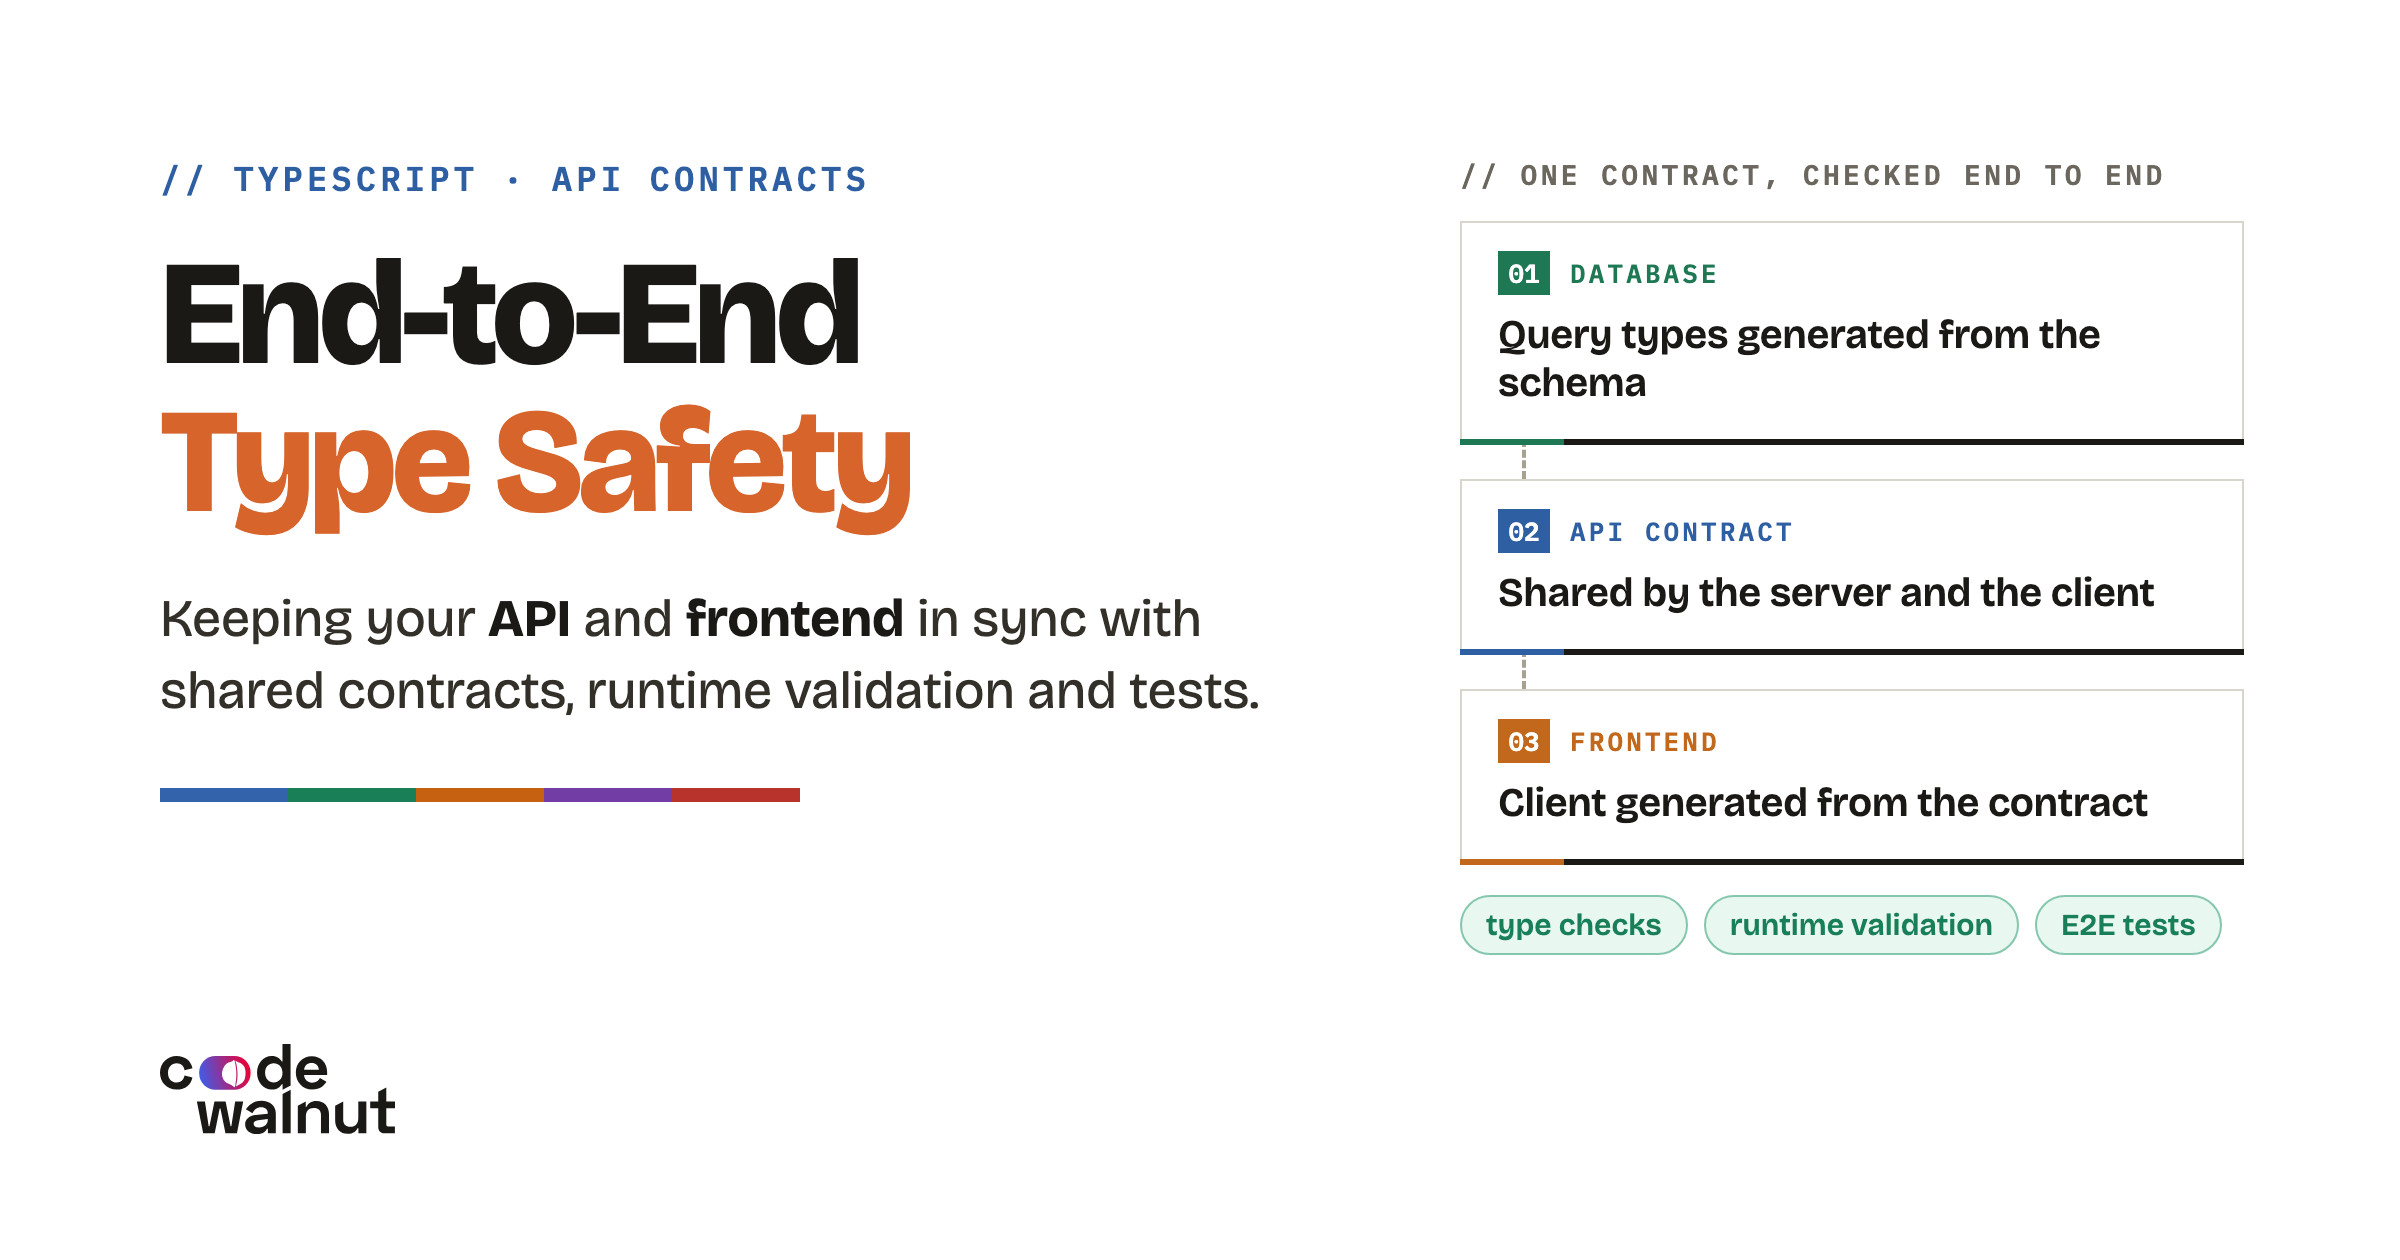
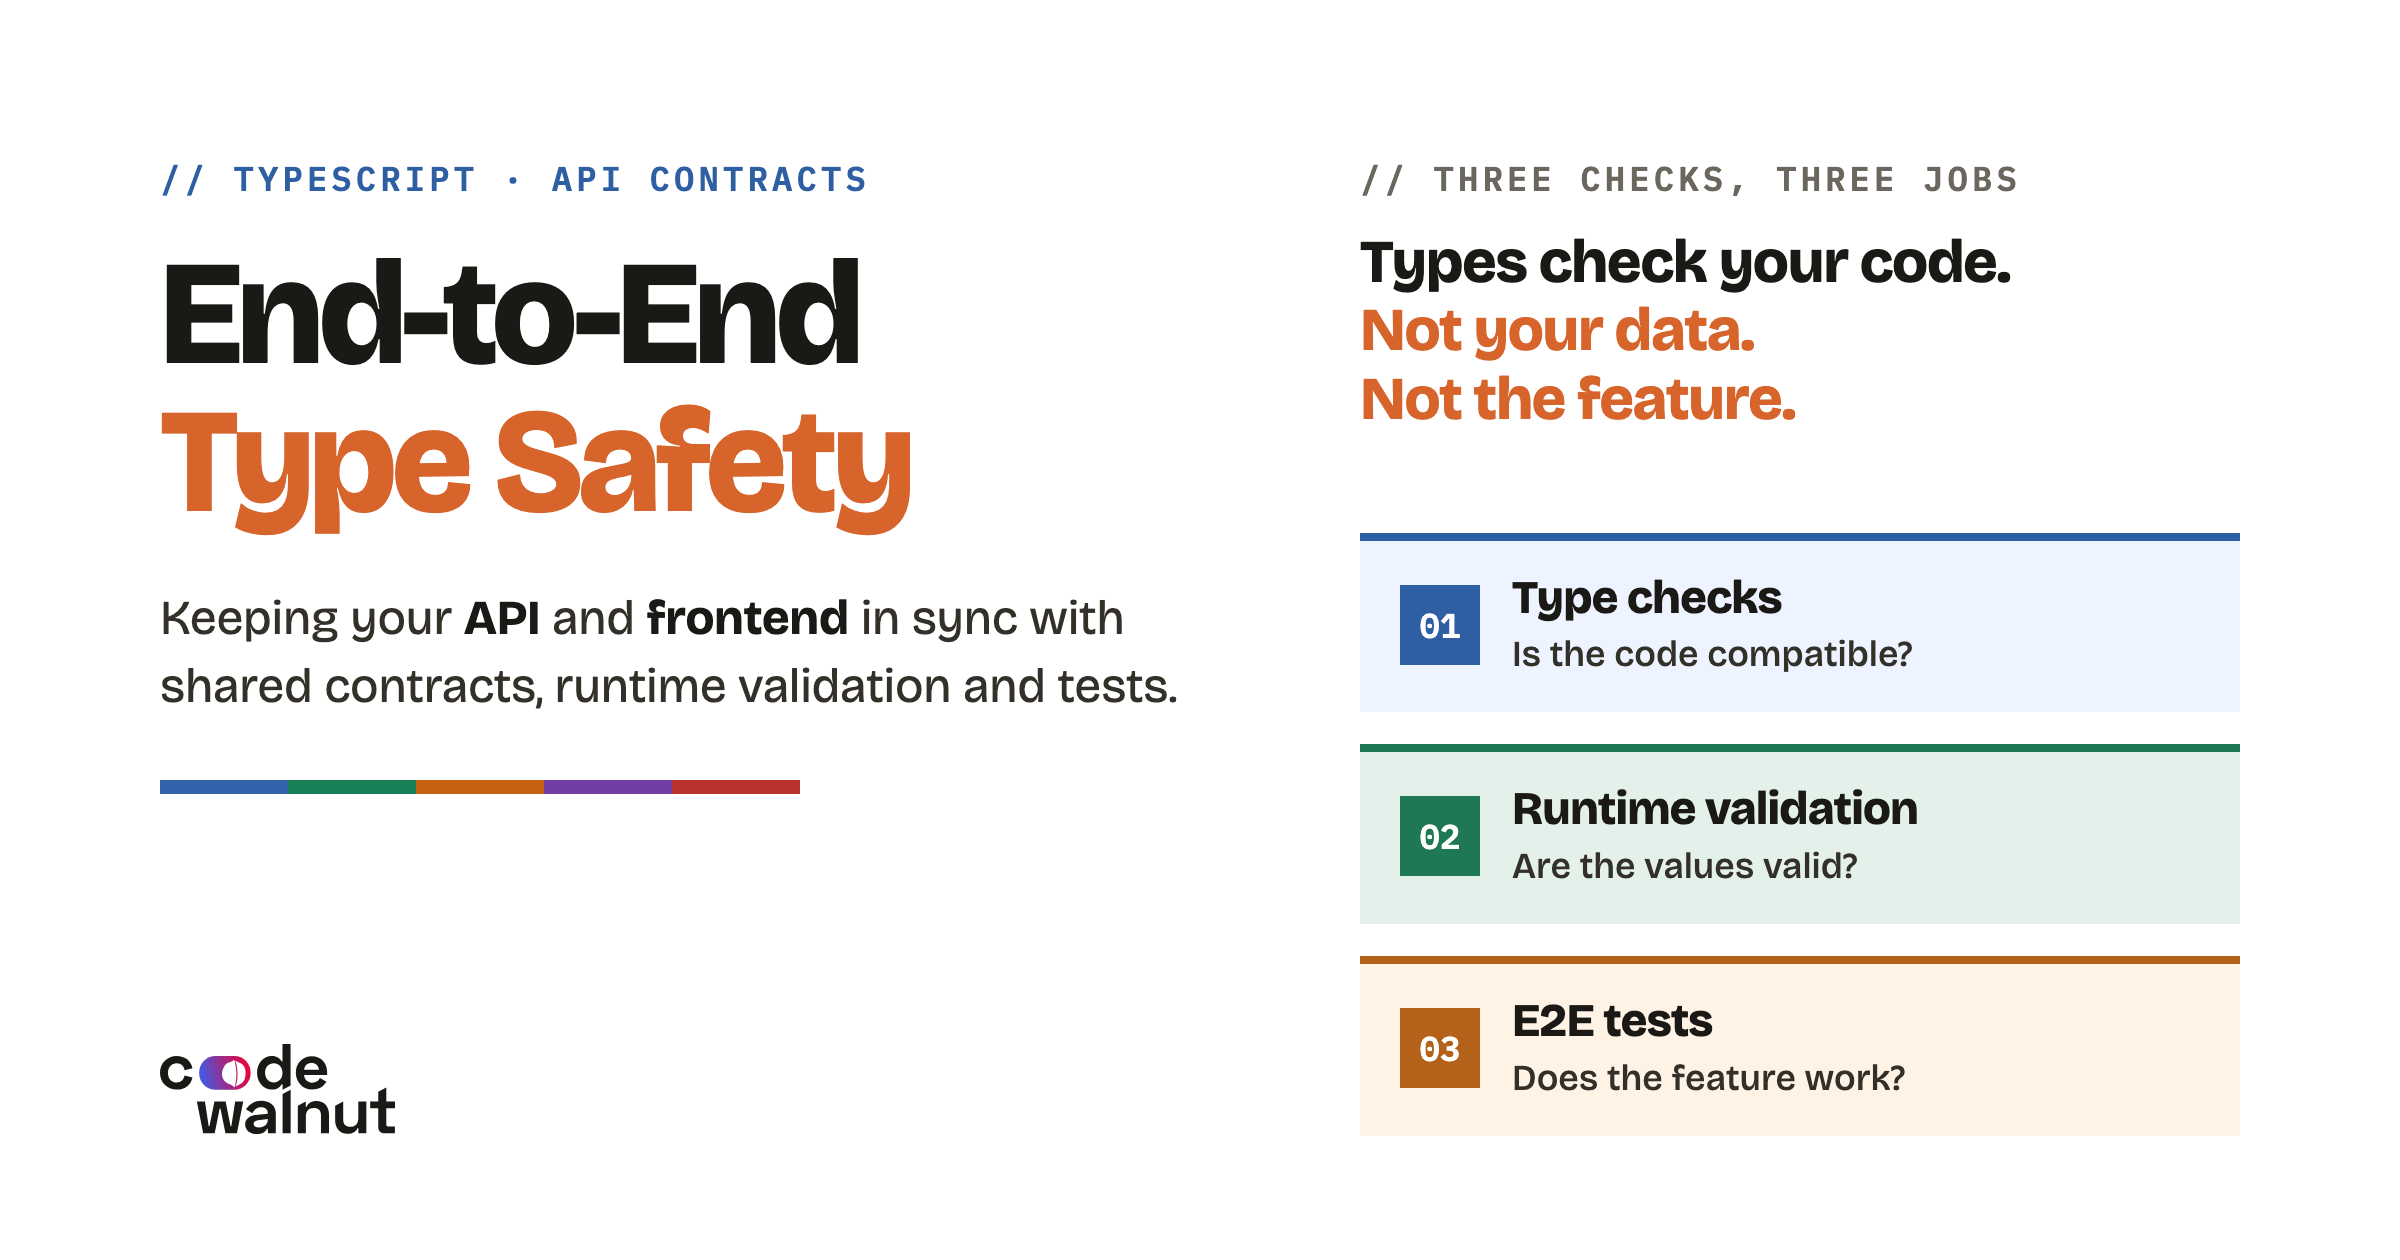
docs: rework social cards to explain each article's core idea
Each card's right column now states the article's main point and backs it with a picture: who does what in an agent (Part 1), what the cache returns on each request (Part 2) and the three checks (type safety). Alt text updated to match.

diff --git a/end-to-end-type-safety/README.md b/end-to-end-type-safety/README.md
@@ -2,7 +2,7 @@
 
 By Vishnumohan R K · 10 September 2026 · 8 min read · Originally published on [CodeWalnut](https://www.codewalnut.com/insights/end-to-end-type-safety-keeping-your-api-and-frontend-in-sync)
 
-![End-to-End Type Safety: keeping your API and frontend in sync. One contract runs from the database through the API to the frontend, checked by type checks, runtime validation and E2E tests.](assets/og-image.png)
+![End-to-End Type Safety: keeping your API and frontend in sync. Types check your code, not your data and not the feature: type checks ask whether the code is compatible, runtime validation whether the values are valid, and E2E tests whether the feature works.](assets/og-image.png)
 A frontend and backend can each pass their type checks and still disagree on the data they exchange.
 
 On one of the projects that I was working on, the frontend was built against an agreed response format. The backend response shape changed during implementation, and the mismatch surfaced when we connected the two. Each codebase’s type checks only covered its own version of the response.

diff --git a/prompt-caching/README.md b/prompt-caching/README.md
@@ -4,7 +4,7 @@
 
 By Vishnumohan R K · 14 November 2026 · 30 min read
 
-![Prompt Caching Explained. In one Claude Code task of 4 requests, 90.5% of input tokens were read from cache, for an API-equivalent cost of $0.20 instead of $0.74.](assets/og-image.png)
+![Prompt Caching Explained. Agents resend everything; the cache makes it cheap. In one Claude Code prompt of 4 requests, most of every request was read from cache, so the task cost $0.20 at API prices instead of $0.74.](assets/og-image.png)
 
 Prompt caching is what lets a coding agent resend your whole session on every request without paying full price each time. In [Part 1 of this series](../how-coding-agents-work/README.md), one prompt to Claude Code became 4 model requests carrying 179,640 input tokens, and 90.5% of those tokens came from the provider's cache.
 

diff --git a/how-coding-agents-work/README.md b/how-coding-agents-work/README.md
@@ -4,7 +4,7 @@
 
 By Vishnumohan R K · 14 November 2026 · 44 min read
 
-![How Coding Agents Work: inside Claude Code and Codex. For one prompt to fix two failing tests, Claude Code made 4 model requests and Codex made 6.](assets/og-image.png)
+![How Coding Agents Work: inside Claude Code and Codex. The model only writes text; the harness does the work. The model asks the harness for a tool and gets the result back, and the harness reads, edits and runs commands on your machine.](assets/og-image.png)
 
 A coding agent such as Claude Code or Codex is a language model inside a harness. The harness is a program that sends the model your request along with instructions and tool definitions, runs the tools the model asks for, sends the results back, and repeats until the model gives a final answer.
 
